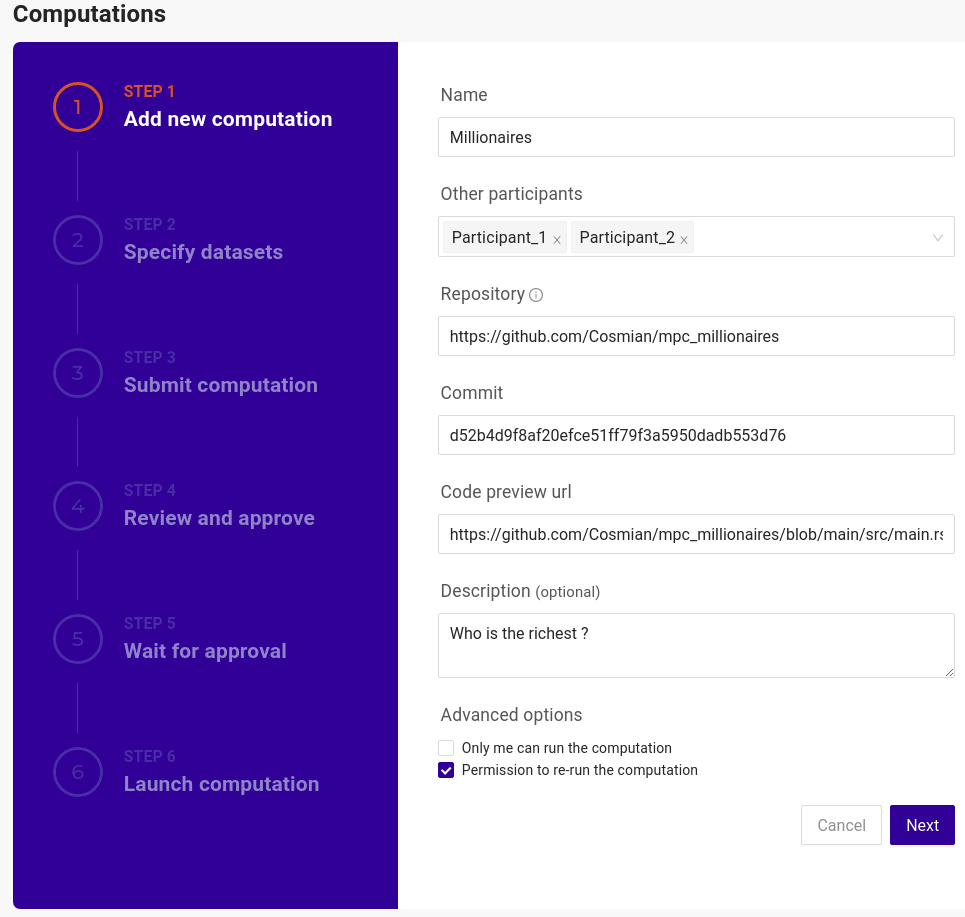
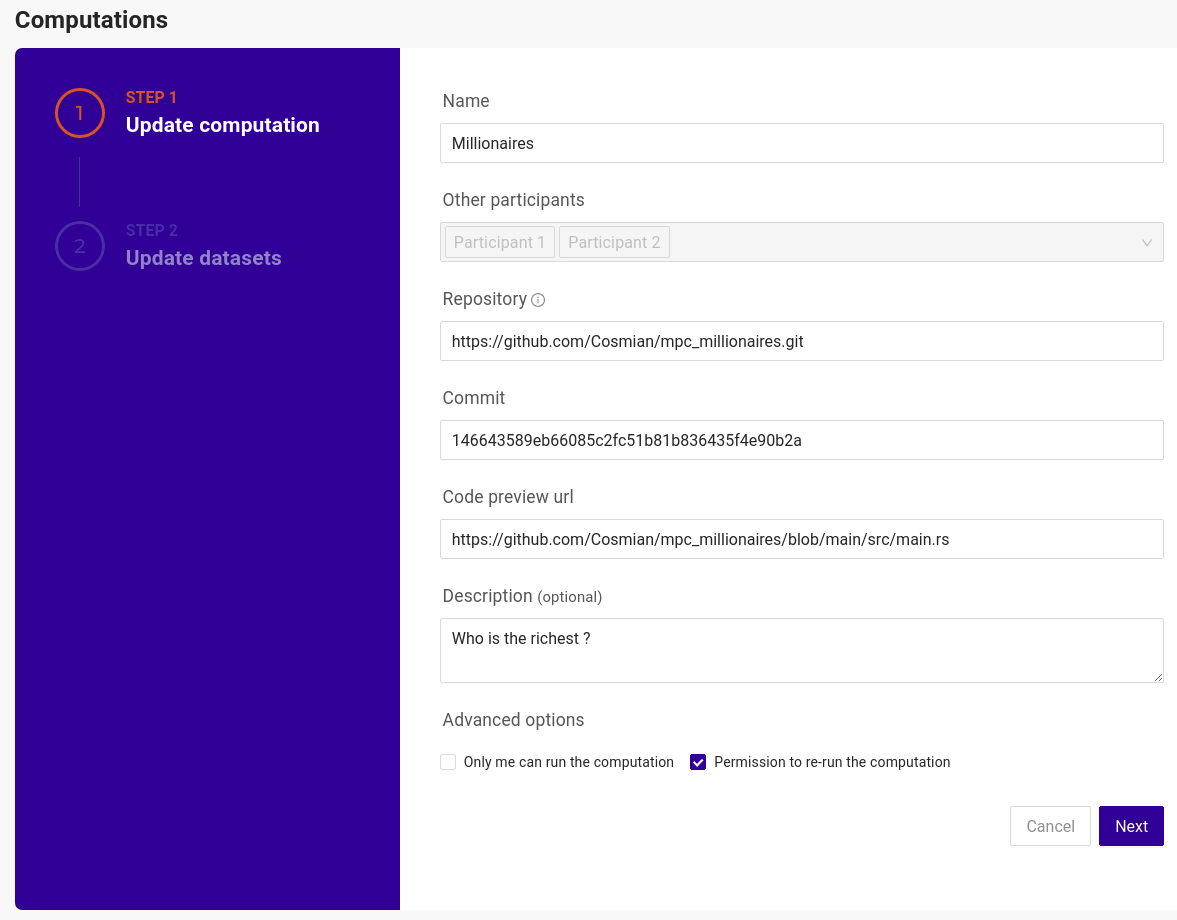
documentation fix

diff --git a/README.md b/README.md
@@ -124,7 +124,7 @@ Fill in the computation details:
  - Name: `Millionaires` (or whatever name you fancy)
  - Participants: select `Participant_1` and `Participant_2`
  - Repository: this is where the algorithm code is available: https://github.com/Cosmian/mpc_millionaires 
- - Commit: the exact version of the code: `d52b4d9f8af20efce51ff79f3a5950dadb553d76`
+ - Commit: the exact version of the code: `146643589eb66085c2fc51b81b836435f4e90b2a`
  - Code preview url: an URL other participants can click to have a quick look at the code: https://github.com/Cosmian/mpc_millionaires/blob/main/src/main.rs
  - Description: something meaningful for Bob and Charlie: `Who is the richest ?`
  
